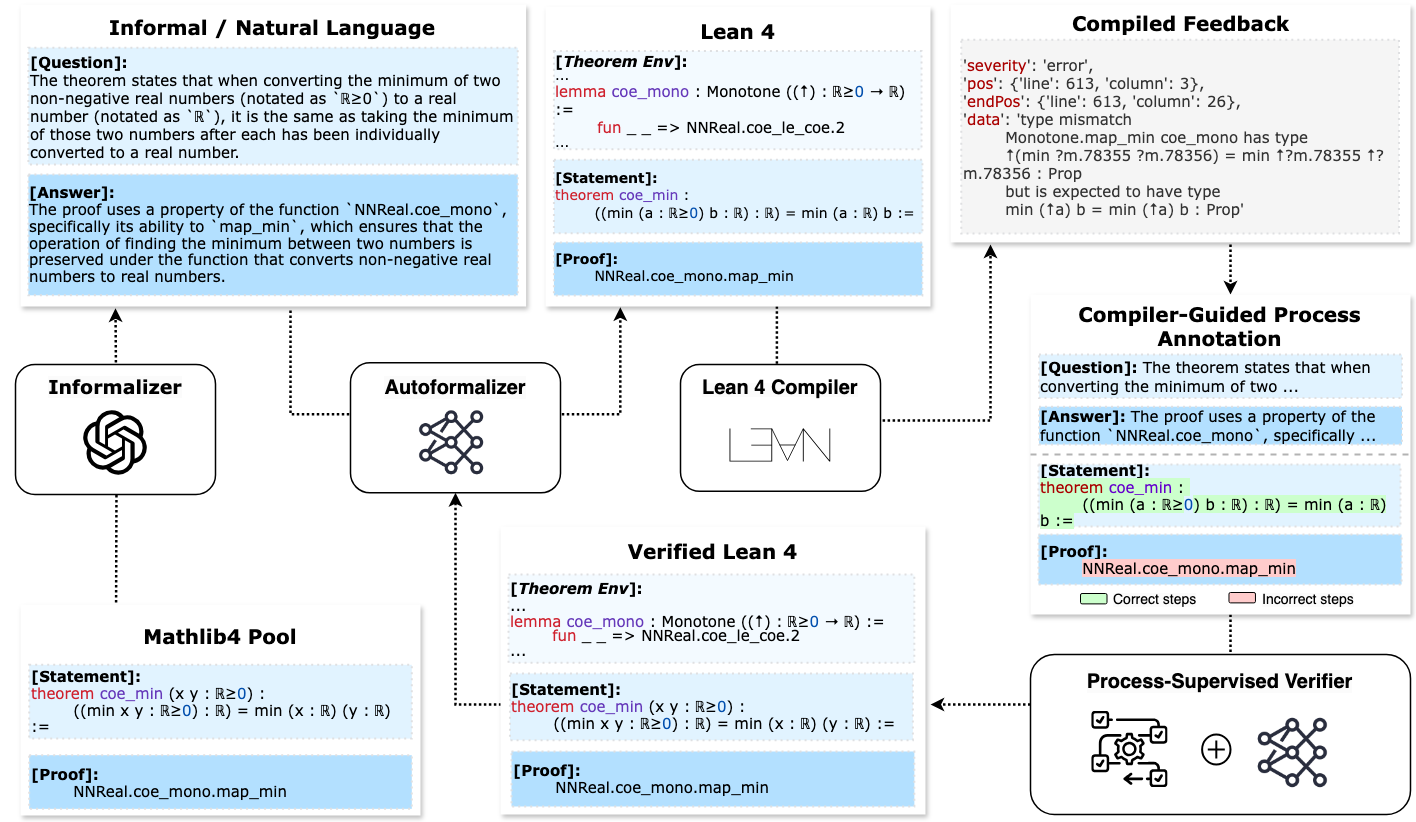
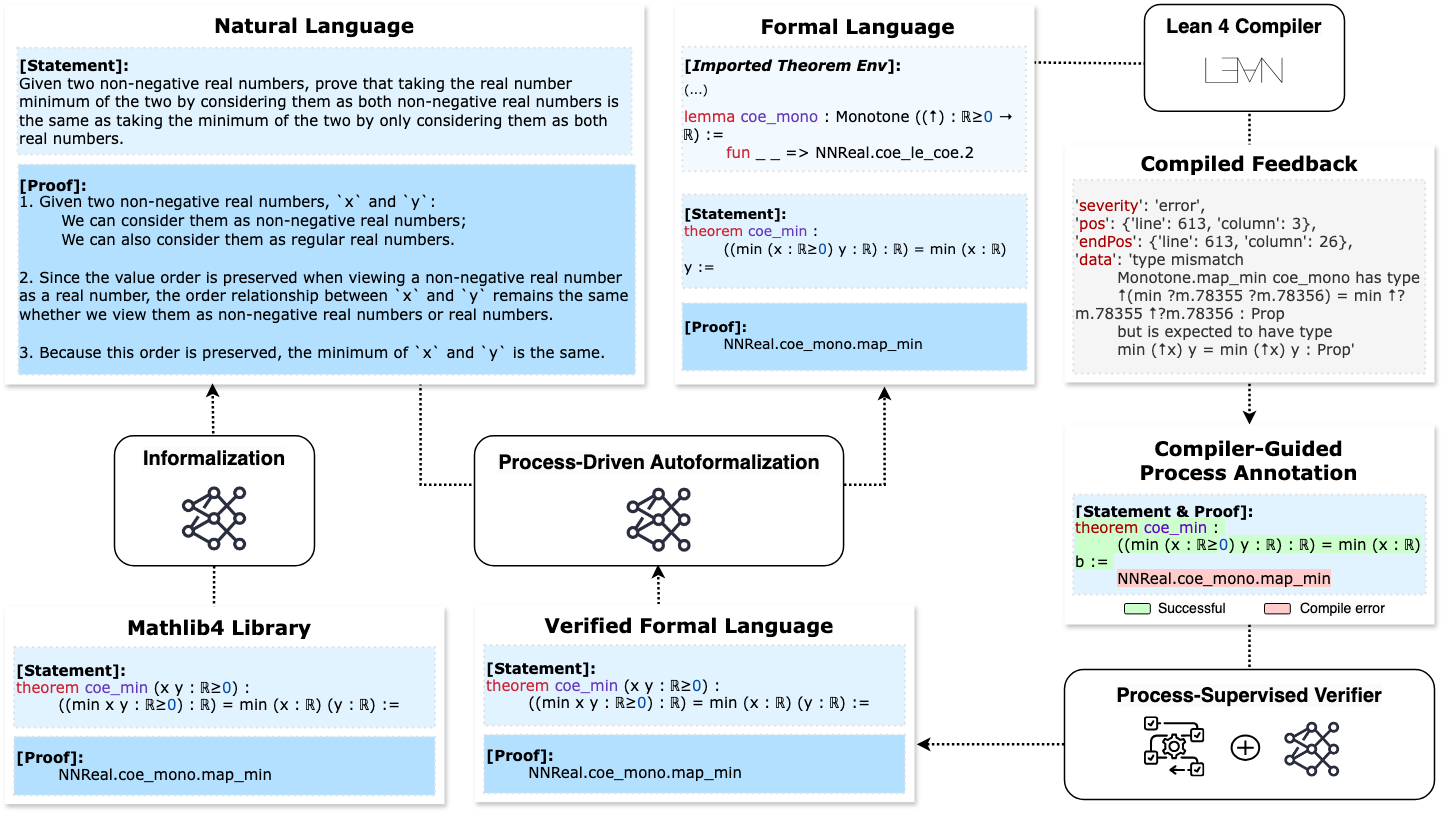
edit README, dataset subset name, and main figure

diff --git a/README.md b/README.md
@@ -1,17 +1,17 @@
 # Process-Driven Autoformalization in Lean 4
+This is the official repository for implementing the paper [Process-Driven Autoformalization in Lean 4](https://arxiv.org/abs/2406.01940).
 
-We note that we have already released our novel proposed benchmark, **Form**alization for **L**ean **4** (**<span style="font-variant: small-caps;">forml4</span>**), and **We will release the code and corresponding finetuned autoformalizer and process-enhanced verifier soon**. This is the official repository for implementing our paper [Process-Driven Autoformalization in Lean 4](https://arxiv.org/abs/2406.01940).
+The autoformalization dataset **Form**alization for **L**ean **4** (**<span style="font-variant: small-caps;">forml4</span>**) is released and located in `data/FormL4`. **We will release the code and corresponding finetuned autoformalizer and process-enhanced verifier soon**.
 
 ## Overview
 An overview of process-driven autoformalization (PDA):
 
 ![PDA overview](./PDA_main.png)
 
-1. **FORML4** benchmark is constructed by prompting GPT-4 to informalize theorems extracted from Mathlib 4; 
+1. **FORML4** dataset is constructed by prompting Gemini-1.5-Pro to informalize theorems extracted from Mathlib 4; 
 2. An **autoformalizer** model is trained on FORML4, with output sent to the Lean 4 Compiler for automated feedback; 
-3. The compiled feedback can provide **process-level annotations** for the autoformalizer's output which are used to train an effective **PSV model**; 
-4. For further enhancement, the autoformalizer is subsequently fine-tuned by the verifier’s feedback, while the
-verifier can again benefit from the improved autoformalizer’s higher-quality output data.
+3. The feedback can provide **process-level annotations** for the autoformalizer's output which are used to train an effective **process-supervised verifier (PSV)**; 
+4. For further enhancement, the autoformalizer is subsequently fine-tuned by the verifier’s feedback, while the verifier can again benefit from the improved autoformalizer’s higher-quality output data.
 
 ## Repository Structure
 
@@ -30,29 +30,27 @@ PDA
 
 ## Dataset 
 
-The `data` directory includes both training  and testing data (**<span style="font-variant: small-caps;">forml4</span>**) for benchmarking the autoformalization task in Lean 4. This dataset is a key resource for developing and evaluating models that can automate the process of formalizing mathematical statements and proofs.
+The `data` directory includes both training and testing data (**<span style="font-variant: small-caps;">forml4</span>**) for training and testing the autoformalization task in Lean 4. It contains:
+  - The `raw.zip` contains raw theorems extracted from mathlib4;
+  - The `FormL4` folder contains the final FormL4 dataset, constructed from LLM informalization and manual processing. See the paper for details about data filtering, construction, etc.
 
-### Contents of the Dataset
+### Breakdown of FormL4
 
-The dataset is organized into the following files, ensuring a comprehensive approach to both training and testing your models:
+The **<span style="font-variant: small-caps;">forml4</span>** dataset is organized into the following files, ensuring a comprehensive approach to both training and testing your models:
 
-- `train.json`: The training data file containing 14509 examples to train models. It includes both the formal and informal statements necessary for learning the autoformalization.
+- `train.json`: The training data file containing 14,250 examples to train models. It includes both the formal and informal statements necessary for learning the autoformalization.
 - `basic_test.json`: The basic test set (970) is specifically designed to evaluate a model's capability to formalize fundamental theorems. 
-- `random_test.json`: The random test set (979) contains a diverse and randomly selected set of problems. 
-- `real_test.jsonl`: The real test set represents the out-of-domain test set, featuring 1,000 natural language mathematics questions and answers distilled from the Arithmo test set. 
-
-
+- `random_test.json`: The random test set (950) contains a diverse and randomly selected set of problems. 
+- `real_test.jsonl`: The real test set represents the out-of-domain test set, featuring 967 natural language mathematics questions and answers distilled from the Arithmo test set. 
 
 ## Code 
-
-
 
 - [x] **Applying Lean 4 Compiler**: Please visit our GitHub repository for more details about how to automate your Lean 4 installation and compilation: [**Automatic Lean 4 Compilation Guide**](https://github.com/rookie-joe/automatic-lean4-compilation)
 
 - [ ] Training/Evaluating autoformalizer and verifier based on (**<span style="font-variant: small-caps;">forml4</span>**) 
 
-
-
+## Human Evaluation
+Human annotations are provided in the `annotation` sub-directory. See the `README.md` in the sub-directory for details.
 
 ## Results
 
@@ -99,7 +97,6 @@ Next, we further evaluated an enhanced verifier by applying it to outputs from t
 | Basic   | 40.71        | 81.34         | 80.12            | 45.13           | 84.22           | 83.18               | 41.49          | 84.59          | 82.73            | 47.30            | 89.14          | 94.17              |
 | Random  | 36.14        | 81.16         | 81.07            | 38.21           | 83.13           | 84.45               | 37.52          | 84.68          | 83.47            | 44.32            | 84.20          | 93.70              |
 | Real    | 25.75        | 84.45         | 86.21            | 33.41           | 84.45           | 86.21               | 33.42          | 84.34          | 81.08            | 45.10            | 94.18          | 89.31              |
-
 
 
 ## Contributing
